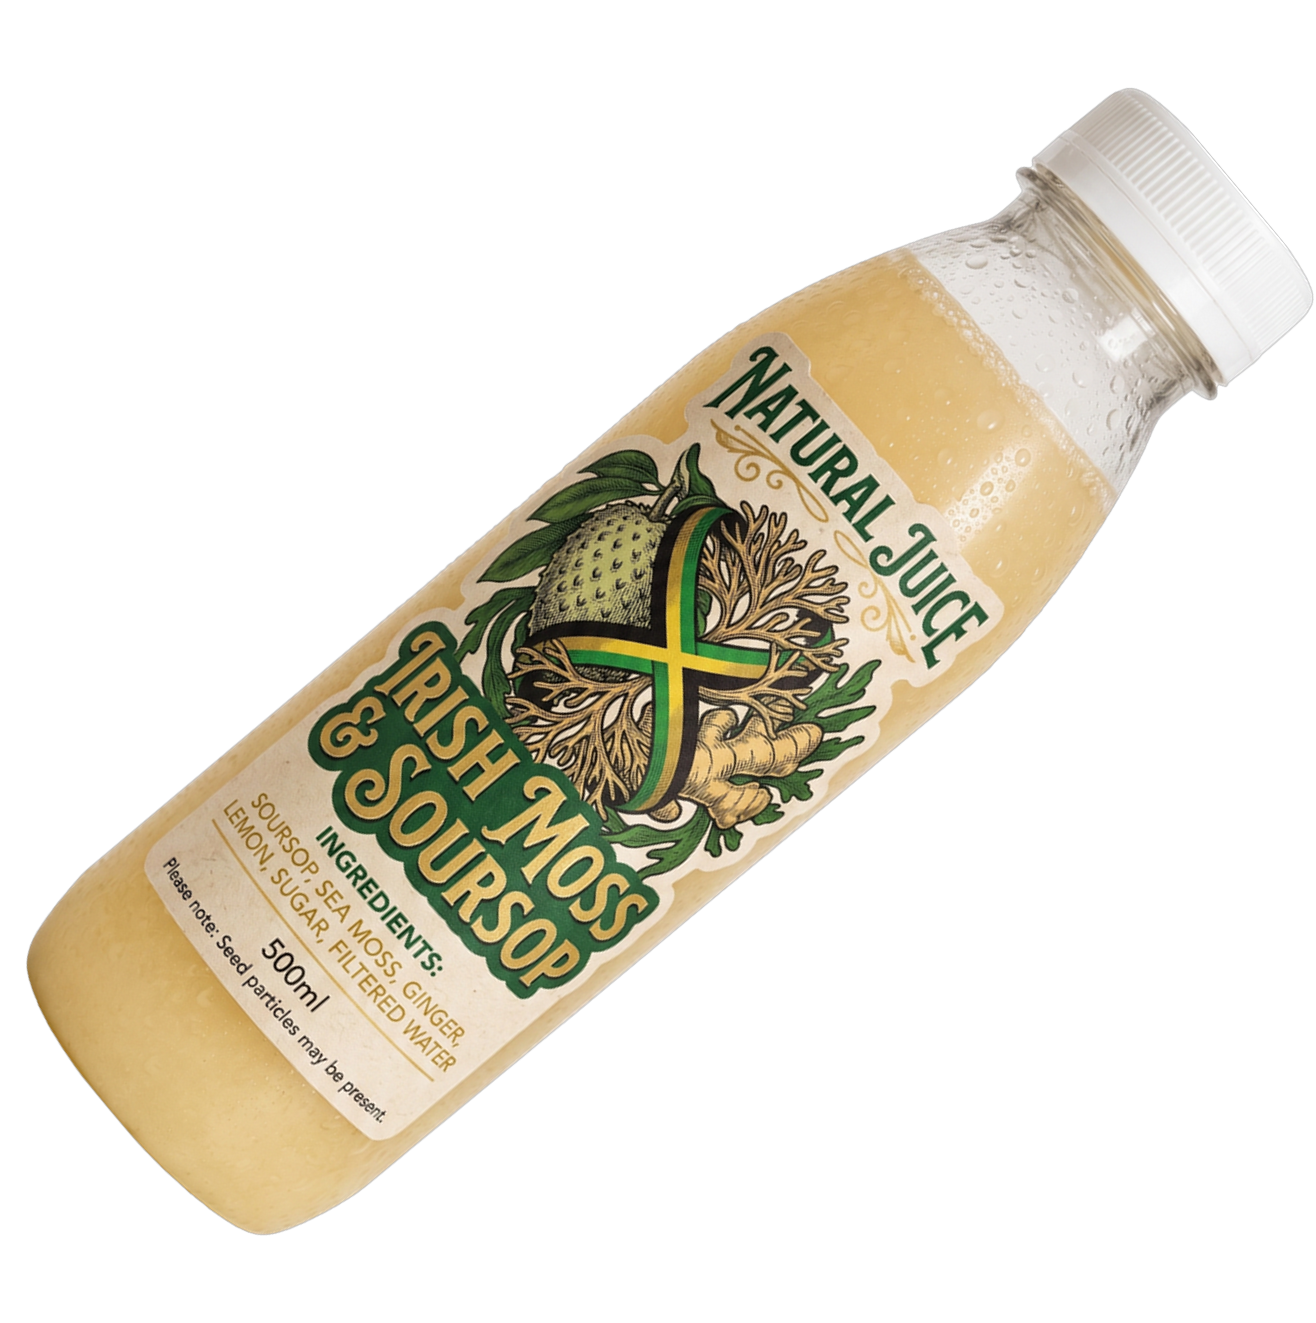
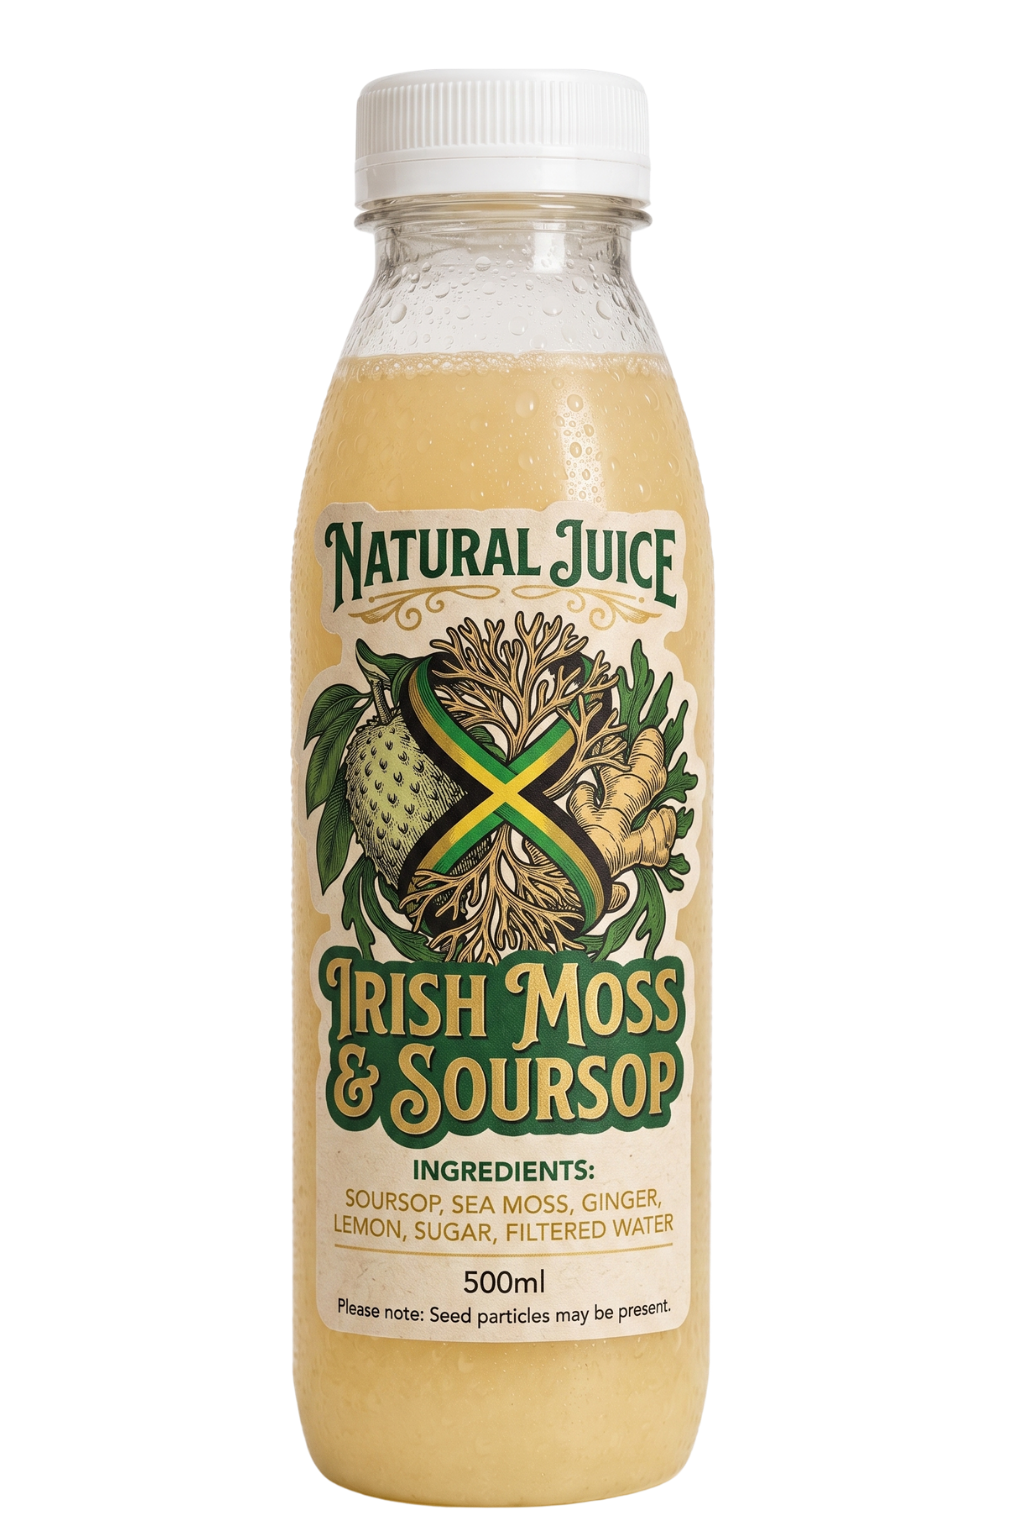
Replace hero section bottle image with new Irish Moss & Soursop asset from AI AGENCY folder

diff --git a/index.html b/index.html
@@ -108,7 +108,7 @@
           left: 50% !important;
           right: auto !important;
           top: 40px !important;
-          transform: translateX(-50%) rotate(-45deg) !important;
+          transform: translateX(-50%) rotate(0deg) !important;
         }
       }
       @media screen and (max-width: 479px) {
@@ -141,7 +141,7 @@
           right: auto !important;
           top: 60px !important;
           max-width: 14rem !important;
-          transform: translateX(-50%) rotate(-45deg) !important;
+          transform: translateX(-50%) rotate(0deg) !important;
         }
       }
     </style>
